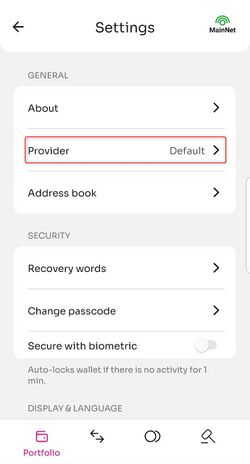
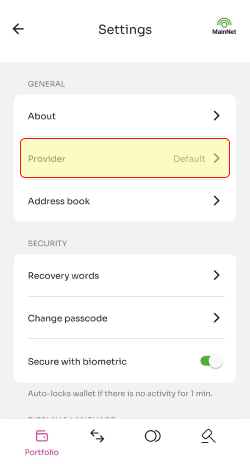
LW change ocean page update
Update the tutorial and also images which are now included in our Figma project.

diff --git a/docs/auto/Lightwallet_change_Ocean.md b/docs/auto/Lightwallet_change_Ocean.md
@@ -9,13 +9,23 @@ The Lightwallet of DeFiChain interacts with the blockchain via Ocean infrastruct
 
 ## How to change Ocean infrastructure {#how-to-change-ocean-infrastructure}
 
-If you want to change the ocean infrastructure (e.g. default ocean is down and you want access to your funds), then you can do it in the settings menu.
+Below are described the steps to change the ocean infrastructure (e.g. default ocean is down and therefore access to the funds in the wallet is not possible).
+
+## Alow "Beta features" in About menu
+
+Firstly it is necessary to allow "Beta features" by clicking on the  text "TRY BETA FEATURES"  in the _About_ menu, which can be reached through the _Settings_ menu. 
+
+_About menu in the Settings menu of the Lightwallet_
+
+![Provider entry in the settings menu of the Lightwallet](./../media/Lightwallet_about_menu.jpg)
+
+## Change provider in the settings menu
 
 _Provider entry in the settings menu of the Lightwallet_
 
 ![Provider entry in the settings menu of the Lightwallet](./../media/Lightwallet_settings_Provider.jpg)
 
-In the provider menu you can enter a new endpoint URL for the ocean infrastructure. The default setting is <https://ocean.defichain.com> and can also be restored with the button _Reset provider_ (will be enabled after ocean was changed). You need your passcode to save the changes.
+In the provider menu it can be entered a new endpoint URL for the ocean infrastructure. The default setting is <https://ocean.defichain.com> and can also be restored with the button _Reset provider_ (will be enabled after ocean was changed). Passcode is required to save the changes.
 
 _Provider menu to change the ocean infrastructure_
 
